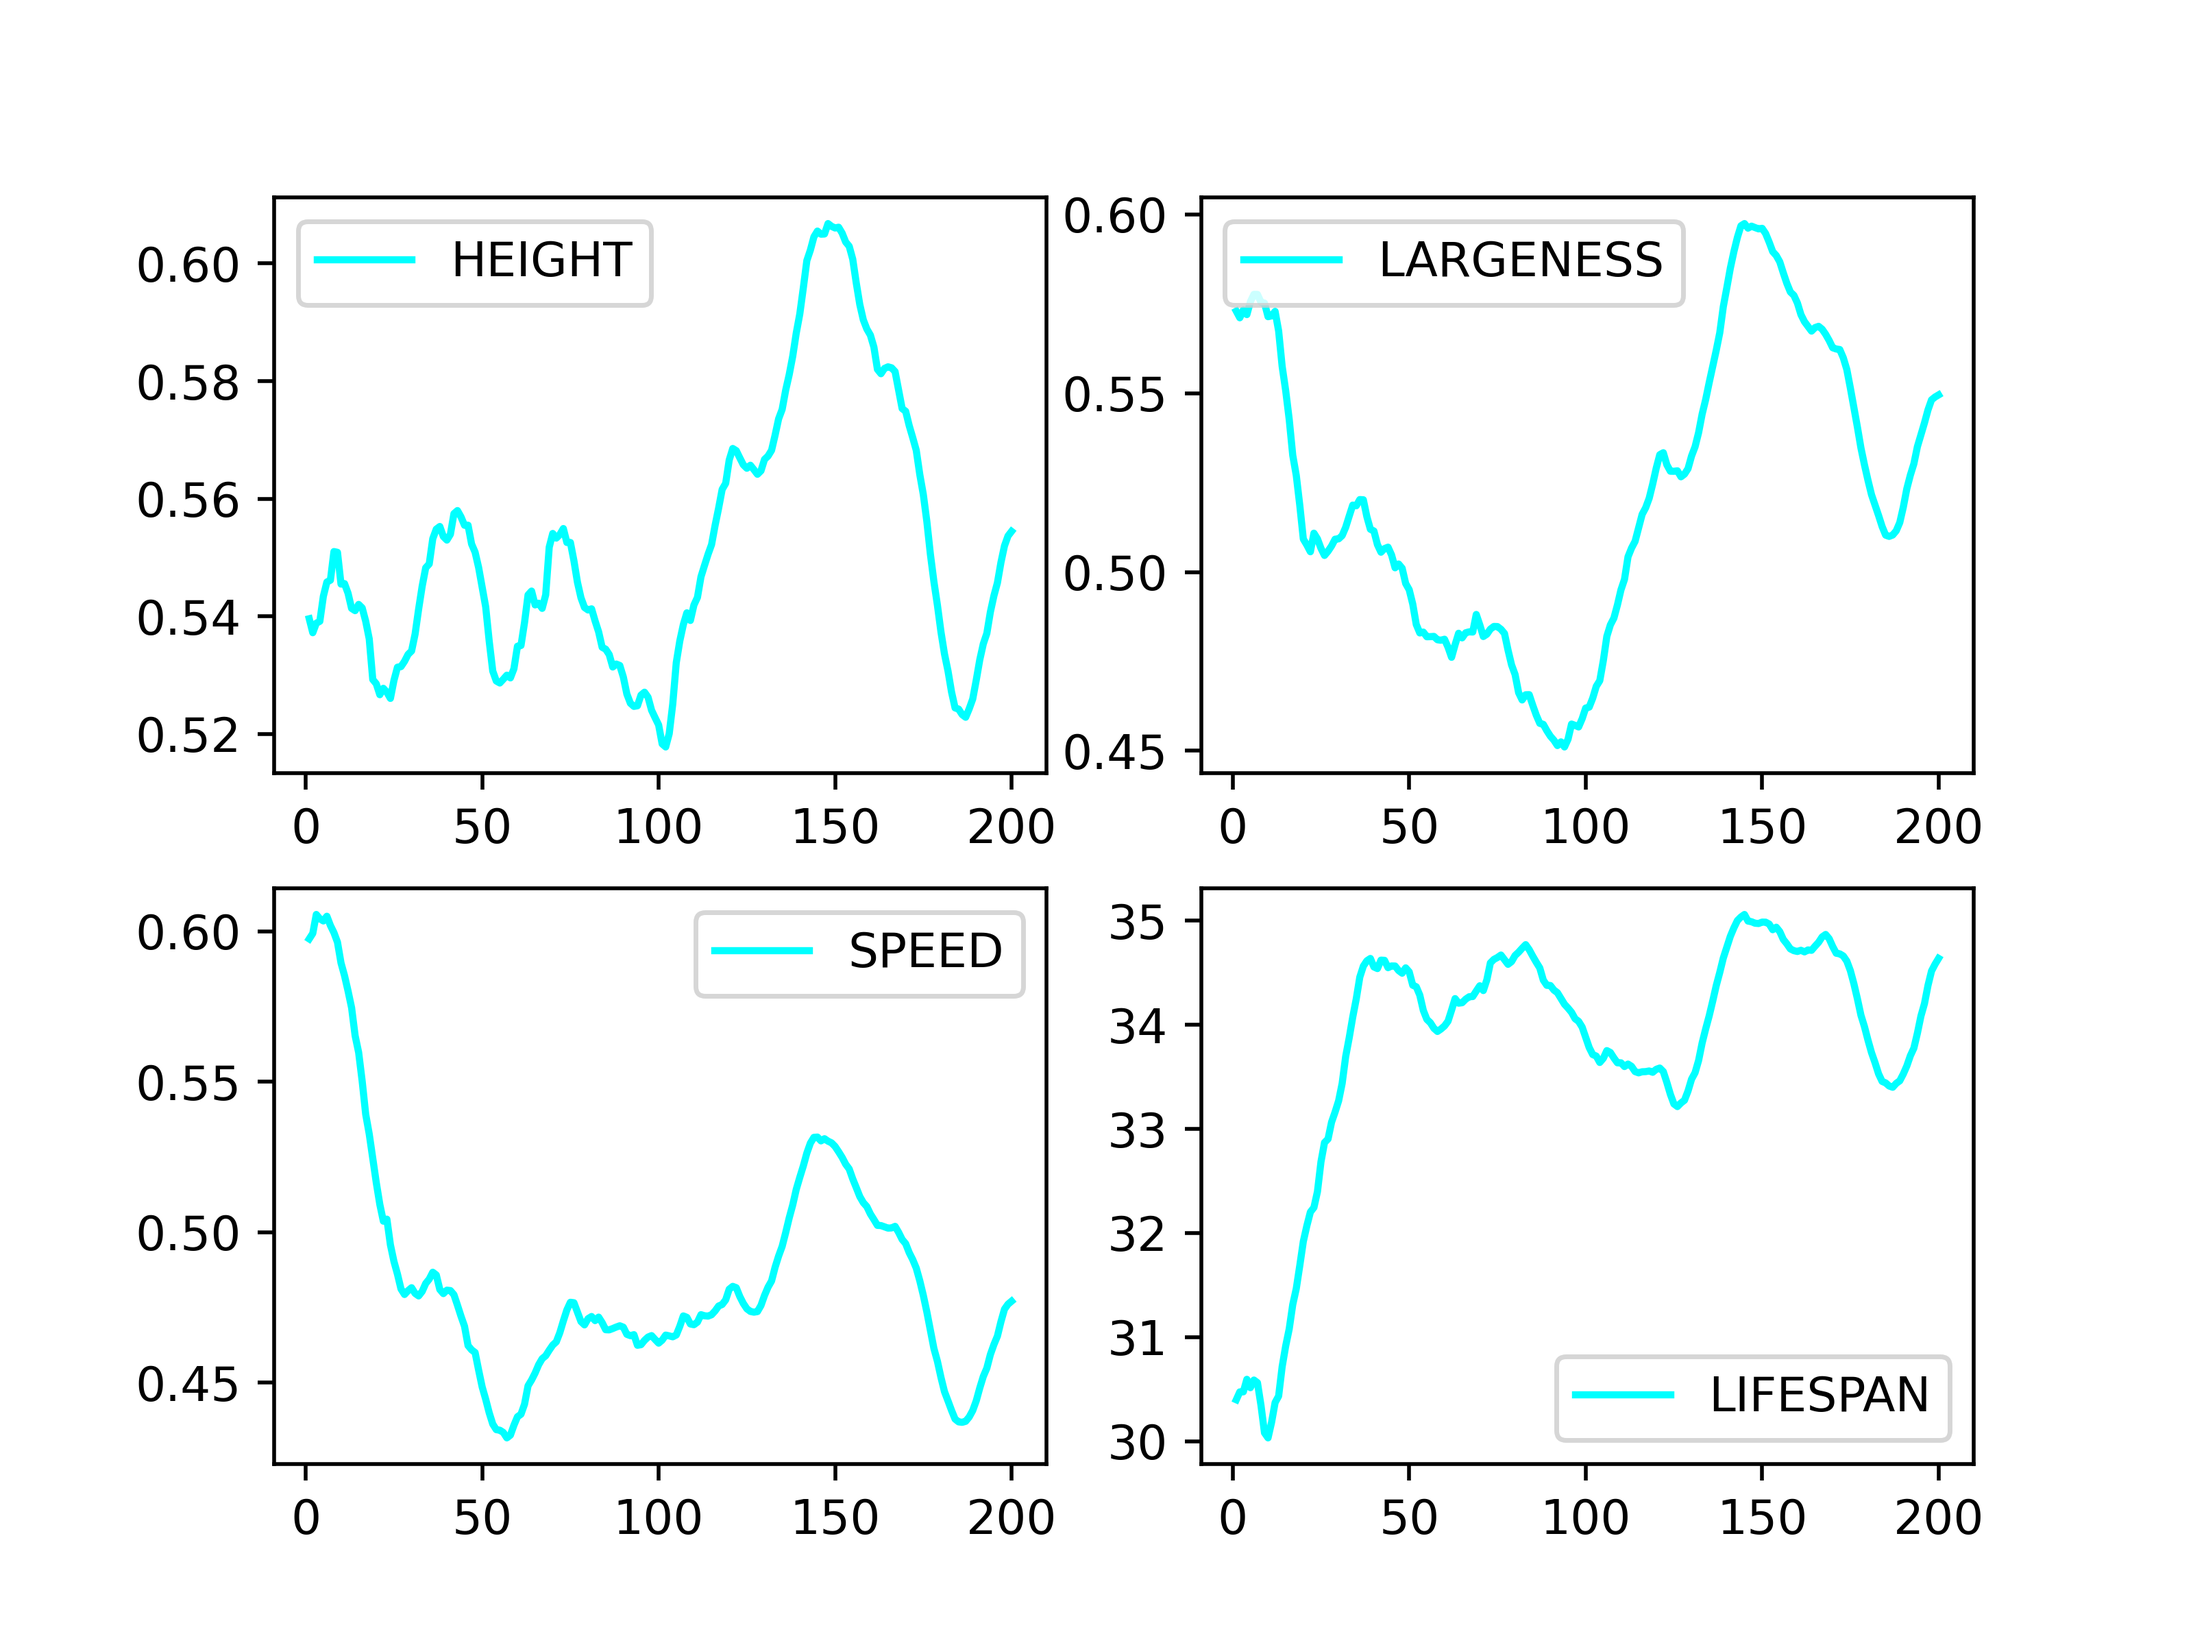
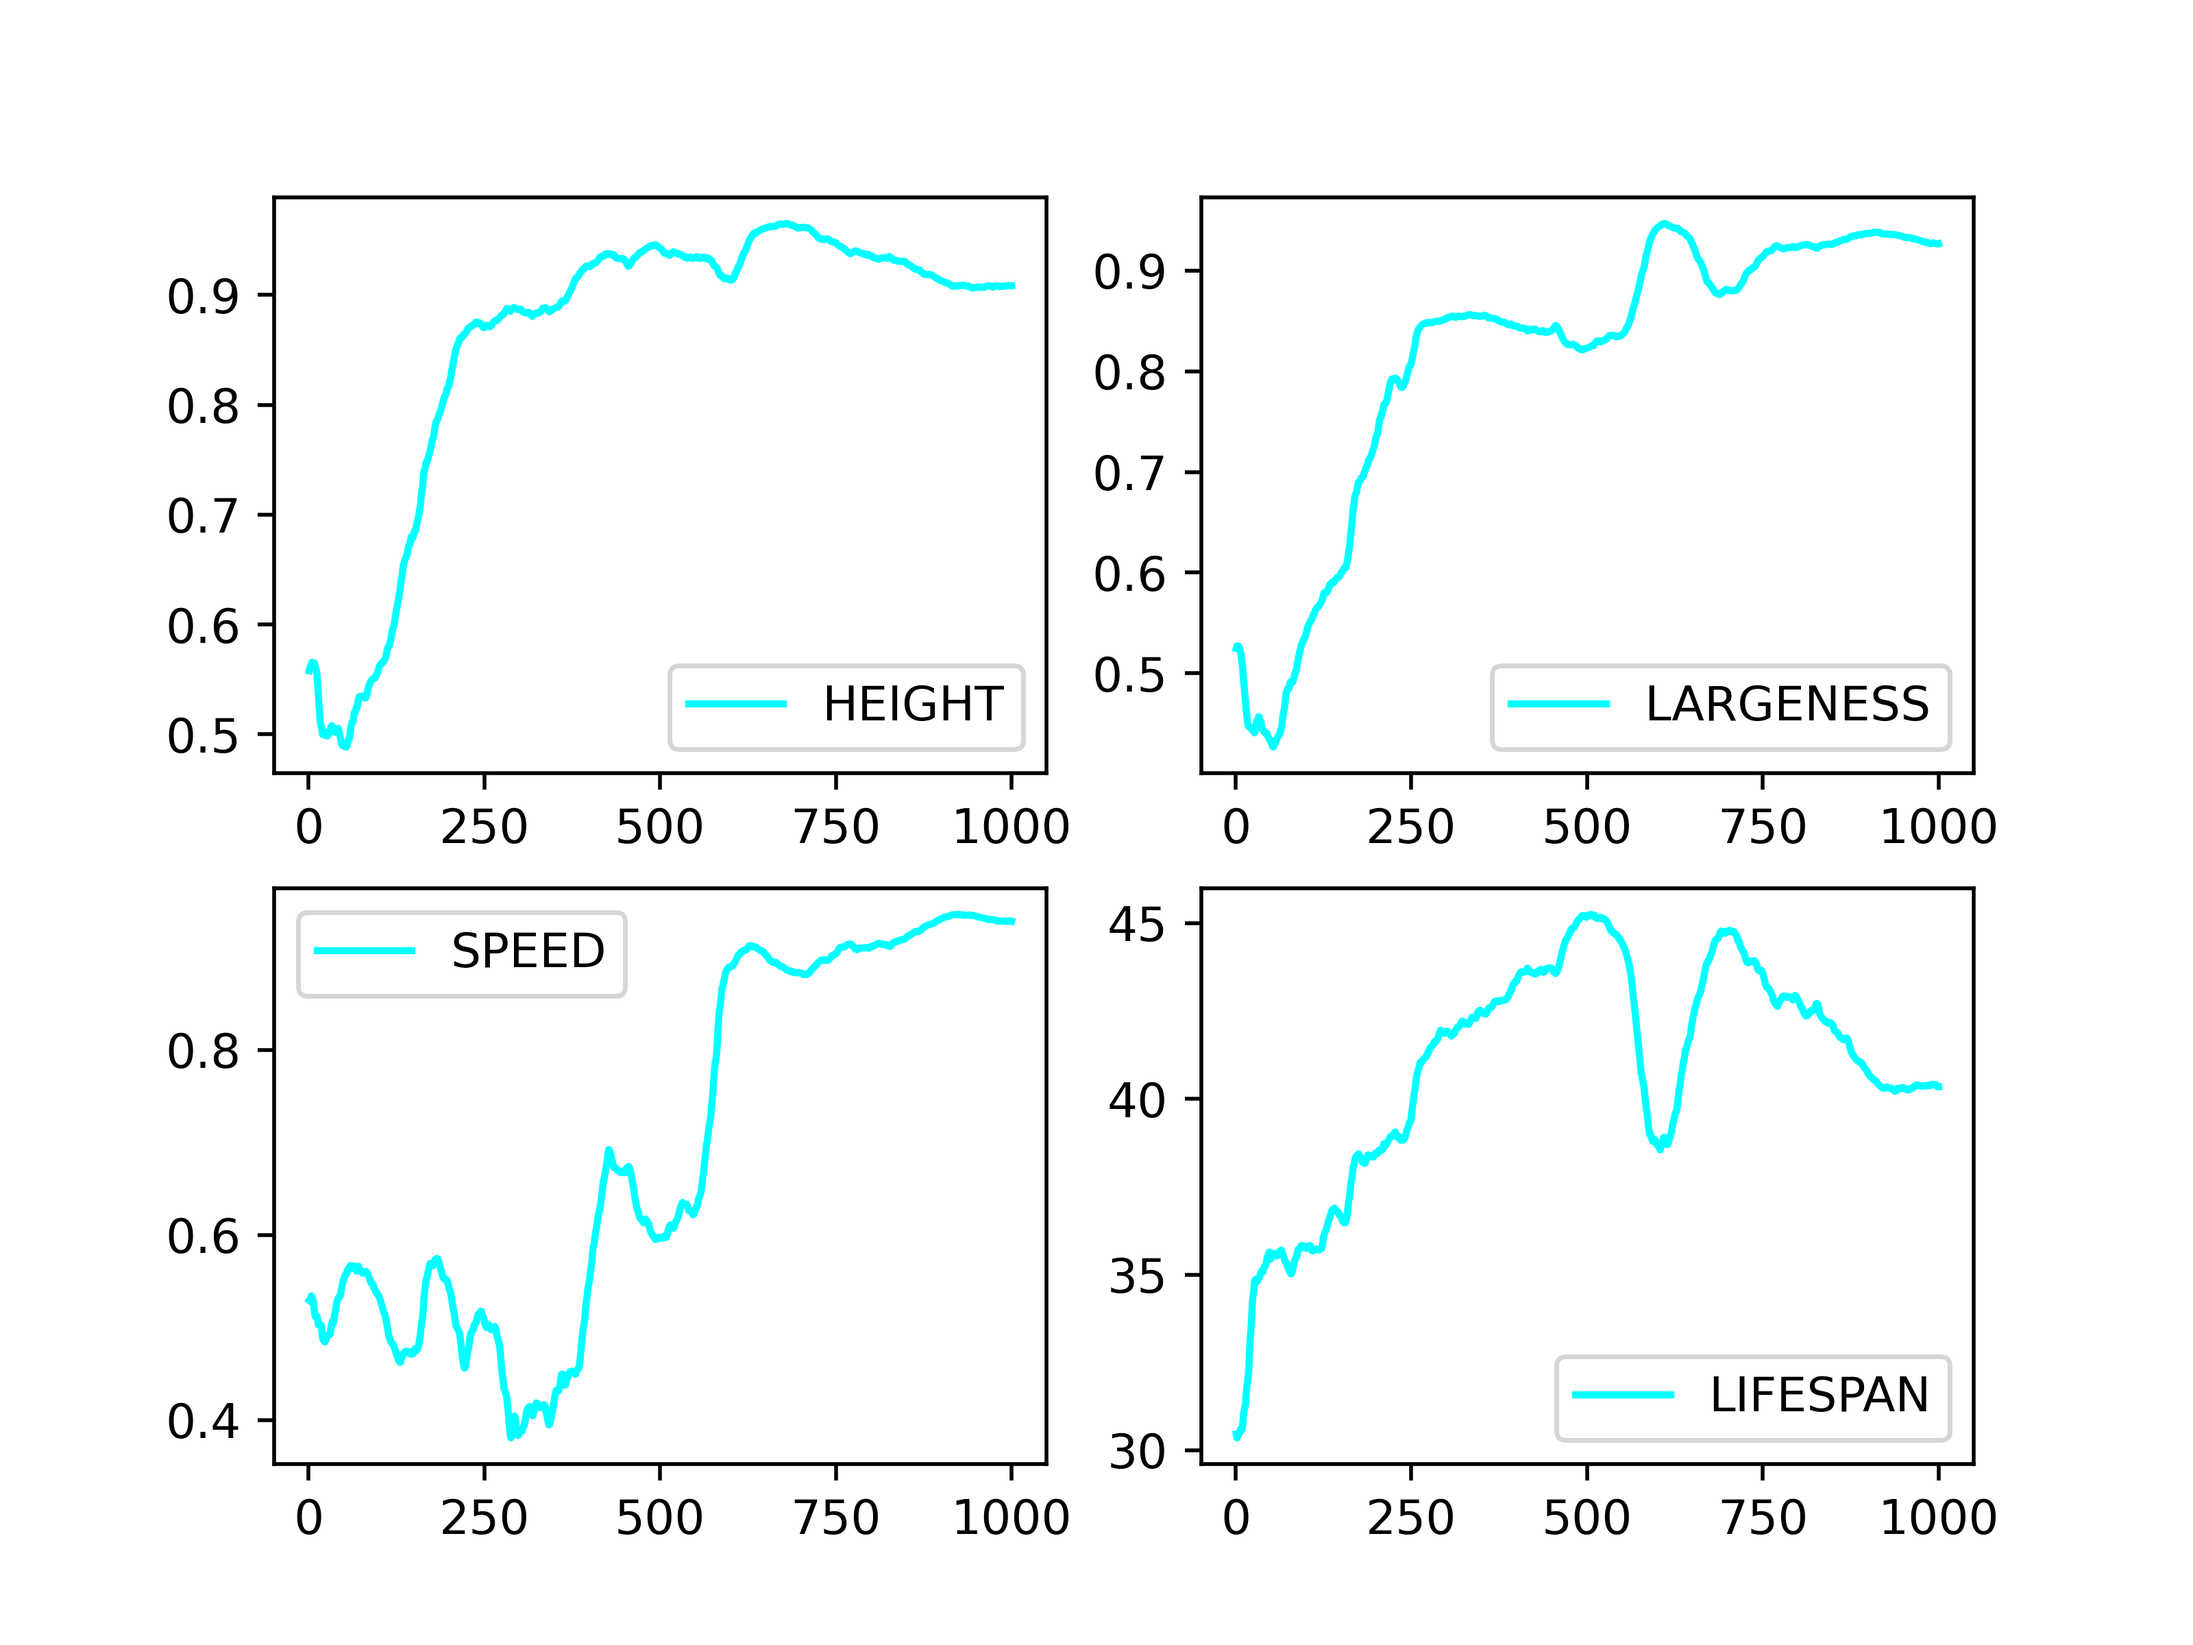
Add files via upload

diff --git a/simulation.py b/simulation.py
@@ -5,6 +5,7 @@ import matplotlib.pyplot as plt
 from numba import njit
 import random
 import matplotlib.animation as animation
+from mpl_toolkits.mplot3d import Axes3D
 
 #--SETTING CONSTANTS FOR WORLD-##
 #------------------------------##
@@ -329,11 +330,23 @@ class World:
         ani=animation.FuncAnimation(fig,update,frames=range(0,len(plants_counts)),interval=50,blit=True)
         ani.save("biomap.gif", writer="pillow",fps=10,dpi=200)
         plt.show()
-                
+    
+    def show_shape(self):
+        '''Shows the shape of land in the world. Saves also an image.'''
+        land_matrix=np.zeros((len(self.height_map),len(self.height_map[0])))
+        for i in range(0,len(self.height_map)):
+            for j in range(0,len(self.height_map[0])):
+                if self.height_map[i][j]>0.5:
+                    land_matrix[i][j]=1
+        plt.imshow(land_matrix,cmap="binary")
+        plt.savefig("land.png")
+        plt.show()
+    
     def initialize_simulation(self,number_of_plants=num_p,number_of_herbivore=num_herb,number_of_carnivore=num_carn):
         '''Generates the organism all at once and returns the lists containing them in this order: plants, herbivores, carnivores. It also shows the world height map.'''
         print("PREPARING TO SHOW WORLD...")
         self.show_maps("height")
+        self.show_shape()
         self.update_clime()
         #create the organisms
         print("GENERATING ORGANISMS...")
@@ -533,6 +546,27 @@ class World:
             ax[1][1].legend()                                                             ##
             plt.savefig("0_carnivores_stats.png",dpi=500)                                 ##
             plt.show()                                                                    ##
+            #CHECK IF LOTKA-VOLTERRA FRIENDLY---------------------------------------------##
+            plt.plot(herbivores_number,carnivores_number,color="black")                   ##
+            plt.xlabel("# herbivores")                                                    ##
+            plt.ylabel("# carnivores")                                                    ##
+            plt.savefig("0_herbivores-carnivores.png",dpi=500)                            ##
+            plt.show()                                                                    ##
+            fig=plt.figure()                                                              ##
+            ax=fig.add_subplot(111, projection="3d")                                      ##
+            ax.plot(herbivores_number,carnivores_number,plants_number,color="black")      ##
+            ax.set_xlabel("# herbivores")                                                 ##
+            ax.set_ylabel("# carnivores")                                                 ##
+            ax.set_zlabel("# plants")                                                     ##
+            dot=ax.scatter(herbivores_number[0],carnivores_number[0],plants_number[0])    ##
+            def updatedot(frame):
+                dot._offsets3d=([herbivores_number[frame]],
+                                [carnivores_number[frame]],
+                                [plants_number[frame]])
+                return dot,
+            ani=animation.FuncAnimation(fig,updatedot,frames=len(herbivores_number))      ##
+            ani.save("organisms.gif", writer="pillow",fps=10,dpi=200)                     ##
+            plt.show()                                                                    ##
             #-----------------------------------------------------------------------------##
             print("DONE")
         else:
@@ -607,6 +641,7 @@ class World:
         It's possible to save the datas obtain in the end using saving=True.'''
         self.get_data()
         self.show_maps("height")
+        self.show_shape()
         #LIST TO SAVE DATA--------------------##
         #TO SAVE DAYS PASSED------------------##
         d=[]                                  ##
@@ -780,6 +815,27 @@ class World:
             ax[1][1].legend()                                                             ##
             plt.savefig("0_carnivores_stats.png",dpi=500)                                 ##
             plt.show()                                                                    ##
+            #CHECK IF LOTKA-VOLTERRA FRIENDLY---------------------------------------------##
+            plt.plot(herbivores_number,carnivores_number,color="black")                   ##
+            plt.xlabel("# herbivores")                                                    ##
+            plt.ylabel("# carnivores")                                                    ##
+            plt.savefig("0_herbivores-carnivores.png",dpi=500)                            ##
+            plt.show()                                                                    ##
+            fig=plt.figure()                                                              ##
+            ax=fig.add_subplot(111, projection="3d")                                      ##
+            ax.plot(herbivores_number,carnivores_number,plants_number,color="black")      ##
+            ax.set_xlabel("# herbivores")                                                 ##
+            ax.set_ylabel("# carnivores")                                                 ##
+            ax.set_zlabel("# plants")                                                     ##
+            dot=ax.scatter(herbivores_number[0],carnivores_number[0],plants_number[0])    ##
+            def updatedot(frame):
+                dot._offsets3d=([herbivores_number[frame]],
+                                [carnivores_number[frame]],
+                                [plants_number[frame]])
+                return dot,
+            ani=animation.FuncAnimation(fig,updatedot,frames=len(herbivores_number))      ##
+            ani.save("organisms.gif", writer="pillow",fps=10,dpi=200)                     ##
+            plt.show()                                                                    ##
             #-----------------------------------------------------------------------------##
             print("DONE")
         else:
@@ -787,13 +843,15 @@ class World:
         if saving==True:
             self.save_data()
     
-    def simulation_with_steps(self,number_of_plants=20000,number_of_herbivore=5000,number_of_carnivore=2000,days_more=10):
+    def simulation_with_steps(self,number_of_plants=20000,number_of_herbivore=7000,number_of_carnivore=2000,days_more=10):
         '''This simulation introduces organisms in stages. Firstly it introduces the plants. 
         When the population is 1.5 times the starting population it introduces the herbivores.
         When the population of herbivores is 1.5 times the starting one it itnroduces carnivores.
         Then simulates for more days defined by "days_more", fixed at 10. 
         At the end saves the results without showing so that the simulation can start using "simulation_from_data".'''
         #create the organisms
+        self.show_maps("height")
+        self.show_shape()
         plants=random_plants(number_of_plants,self.height_map)
         print("OBSERVING PLANTS...")
         dd=0
@@ -862,7 +920,7 @@ def main():
     '''Example of use.'''
     world=World()
     world.simulation_with_steps()
-    world.simulation_from_data()
+    world.simulation_from_data(days=1000)
     
 if __name__=="__main__":
     main()

diff --git a/organism.py b/organism.py
@@ -265,7 +265,7 @@ class Herbivore(Animal):
 
 #-------CARNIVORES COSTANTS----------
 
-cost_carb_get_energy=5
+cost_carb_get_energy=3
 cost_carb_reproduction_chance=0.35
 cost_body=1.1 #>1
 
@@ -279,7 +279,7 @@ class Carnivore(Animal):
         n=0
         for herbivore in herbivores:
             n+=1
-            if herbivore.largeness<self.largeness-0.1 or herbivore.speed<self.speed-0.1: #CHECK IF IT WINS
+            if herbivore.largeness<self.largeness-0.1 or herbivore.speed<self.speed-0.1 or herbivore.height<self.height-0.1: #CHECK IF IT WINS
                 self.energy+=cost_carb_get_energy*herbivore.energy_needed
                 if self.energy>3*self.energy_needed:
                     break        

diff --git a/noise.py b/noise.py
@@ -73,7 +73,7 @@ def noise(length,height,step):
 #--------------NOISE MAP WITH LAYERS-
 
 @njit        
-def layermap(length,height,steps,weights,mask=True,weight_gaussian=2):
+def layermap(length,height,steps,weights,mask=True,weight_gaussian=10):
     '''Generates a noise map summing various noise maps with certain weights and steps.
     Weights and steps must have the same lenght. 
     There is also the possibility to apply a gaussian mask with a customizable gaussian weight ("weight_gaussian").'''
